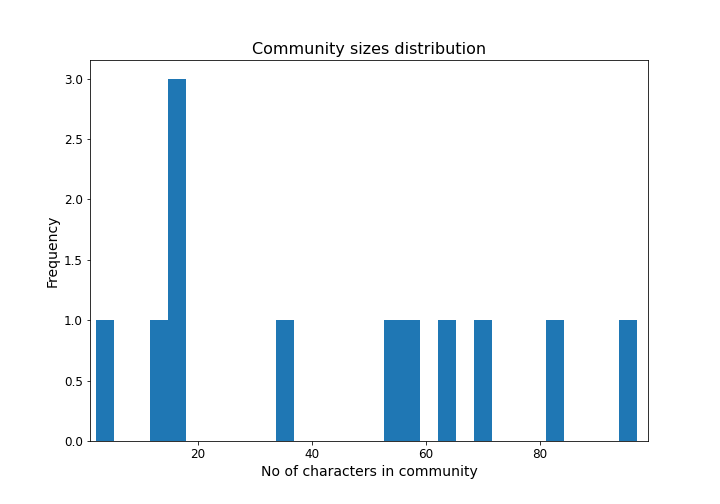
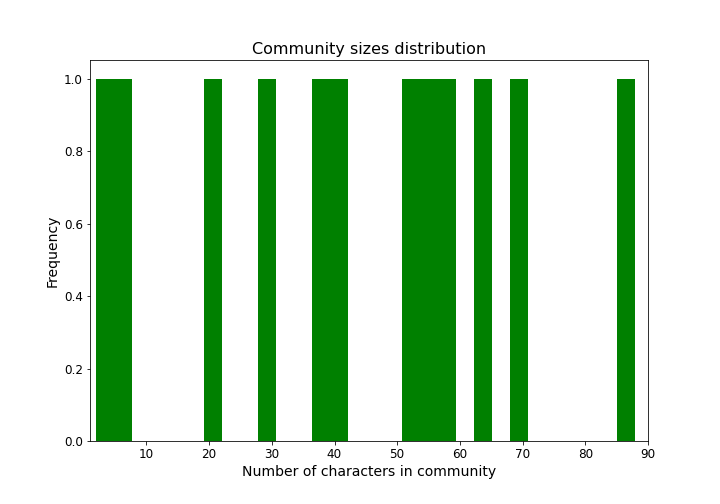
update posts

diff --git a/posts/intro/index.html b/posts/intro/index.html
@@ -7,7 +7,10 @@
     <title>Introduction | Greek Mythology</title>
     <meta name="viewport" content="width=device-width,minimum-scale=1">
     <meta name="description" content="This website is a part of project assignment B in the course 02805 - Social Graphs and interactions at DTU. Here we will present our idea and analyses to the world! We will with this website tell the story about our dataset and what we&rsquo;ve learned.
-Here is our video submission for part A of this assignment.">
+Here is our video submission for part A of this assignment.
+
+To download our dataset press here.
+To download our explainer notebook press here.">
     <meta name="generator" content="Hugo 0.89.4" />
     
     
@@ -29,7 +32,10 @@ Here is our video submission for part A of this assignment.">
     
     <meta property="og:title" content="Introduction" />
 <meta property="og:description" content="This website is a part of project assignment B in the course 02805 - Social Graphs and interactions at DTU. Here we will present our idea and analyses to the world! We will with this website tell the story about our dataset and what we&rsquo;ve learned.
-Here is our video submission for part A of this assignment." />
+Here is our video submission for part A of this assignment.
+
+To download our dataset press here.
+To download our explainer notebook press here." />
 <meta property="og:type" content="article" />
 <meta property="og:url" content="https://iriss04.github.io/posts/intro/" /><meta property="article:section" content="posts" />
 <meta property="article:published_time" content="2021-12-05T00:14:32+01:00" />
@@ -37,13 +43,19 @@ Here is our video submission for part A of this assignment." />
 
 <meta itemprop="name" content="Introduction">
 <meta itemprop="description" content="This website is a part of project assignment B in the course 02805 - Social Graphs and interactions at DTU. Here we will present our idea and analyses to the world! We will with this website tell the story about our dataset and what we&rsquo;ve learned.
-Here is our video submission for part A of this assignment."><meta itemprop="datePublished" content="2021-12-05T00:14:32+01:00" />
+Here is our video submission for part A of this assignment.
+
+To download our dataset press here.
+To download our explainer notebook press here."><meta itemprop="datePublished" content="2021-12-05T00:14:32+01:00" />
 <meta itemprop="dateModified" content="2021-12-05T00:14:32+01:00" />
-<meta itemprop="wordCount" content="57">
+<meta itemprop="wordCount" content="70">
 <meta itemprop="keywords" content="" /><meta name="twitter:card" content="summary"/>
 <meta name="twitter:title" content="Introduction"/>
 <meta name="twitter:description" content="This website is a part of project assignment B in the course 02805 - Social Graphs and interactions at DTU. Here we will present our idea and analyses to the world! We will with this website tell the story about our dataset and what we&rsquo;ve learned.
-Here is our video submission for part A of this assignment."/>
+Here is our video submission for part A of this assignment.
+
+To download our dataset press here.
+To download our explainer notebook press here."/>
 
 	
   </head>
@@ -147,6 +159,8 @@ Here is our video submission for part A of this assignment."/>
 We will with this website tell the story about our dataset and what we&rsquo;ve learned.</p>
 <p>Here is our video submission for part A of this assignment.</p>
 <p><a href="https://www.youtube.com/watch?v=7TwIk3wOlrA" title="Project Assignment A"><img src="https://img.youtube.com/vi/7TwIk3wOlrA/0.jpg" alt="Project Assignment A"></a></p>
+<p>To download our dataset press <a href="https://github.com/iriss04/Final-Project-02805/blob/main/characters.zip">here</a>.</p>
+<p>To download our explainer notebook press <a href="https://github.com/iriss04/Final-Project-02805/blob/main/Explainer%20Notebook%20-%20Greek%20Mythology.ipynb">here</a>.</p>
 <ul class="pa0">
   
 </ul>

diff --git a/posts/analysis/index.html b/posts/analysis/index.html
@@ -39,7 +39,7 @@ Word clouds Word Clouds are a very fun way to get to know your dataset better." 
 <meta itemprop="description" content="For this part of the project we go in deeper analysis of the dataset. Here we will not go deep into how the analysis was performed, that information is available in our explainer notebook, which can be downloaded here. Here you will see the word clouds we created. Finding communities and calculate their TF-IDF. Then finally sentiment of the created communities.
 Word clouds Word Clouds are a very fun way to get to know your dataset better."><meta itemprop="datePublished" content="2021-11-29T22:46:41+01:00" />
 <meta itemprop="dateModified" content="2021-11-29T22:46:41+01:00" />
-<meta itemprop="wordCount" content="1356">
+<meta itemprop="wordCount" content="1346">
 <meta itemprop="keywords" content="" /><meta name="twitter:card" content="summary"/>
 <meta name="twitter:title" content="Analysis"/>
 <meta name="twitter:description" content="For this part of the project we go in deeper analysis of the dataset. Here we will not go deep into how the analysis was performed, that information is available in our explainer notebook, which can be downloaded here. Here you will see the word clouds we created. Finding communities and calculate their TF-IDF. Then finally sentiment of the created communities.
@@ -174,7 +174,7 @@ Word clouds Word Clouds are a very fun way to get to know your dataset better."/
 <p>For our network we identified communities with the Louvain algorithm. With this algorithm we detected 12 communities in our network, ranging from 0 to 11. The smallest community has 2 characters and the largest has 79 characters.</p>
 <p>Here you can see a histogram of the community size distribution.</p>
 <p><img src="/images/community_dist.png" alt="alt text for screen readers" title="Distribution of communities"></p>
-<p>From the distribution we can see how most of the communities have a distinct number of characters. The most frequent size of a community has 60 characters. The largest community has 79 characters and the second largest has 70 characters. It&rsquo;s interesting to see how different categories distribute down to the largest communities. Here below is a list of the number of different characters in the five largest communities.</p>
+<p>From the distribution we can see how all of the communities have a distinct number of characters. The largest community has 87 characters and the second largest has 70 characters. It&rsquo;s interesting to see how different categories distribute down to the largest communities. Here below is a list of the number of different characters in the five largest communities.</p>
 <p>Largest community:</p>
 <ul>
 <li>Creature    35</li>

diff --git a/posts/network/index.html b/posts/network/index.html
@@ -39,7 +39,7 @@ The network After getting all the characters, their texts and their links the Gi
 <meta itemprop="description" content="In this post you will see the network of Greek mythology we created. How the information from the Fandom wiki was extracted is detailed in the dataset post.
 The network After getting all the characters, their texts and their links the Giant Connected Component (GCC) was plotted. The characters, nodes, is given different colours to make it more visually pretty and there is added edges in between to see which characters has links to which."><meta itemprop="datePublished" content="2021-11-29T23:45:51+01:00" />
 <meta itemprop="dateModified" content="2021-11-29T23:45:51+01:00" />
-<meta itemprop="wordCount" content="488">
+<meta itemprop="wordCount" content="372">
 <meta itemprop="keywords" content="" /><meta name="twitter:card" content="summary"/>
 <meta name="twitter:title" content="The Network and basic stats"/>
 <meta name="twitter:description" content="In this post you will see the network of Greek mythology we created. How the information from the Fandom wiki was extracted is detailed in the dataset post.
@@ -179,8 +179,6 @@ The out-degree tells us the frequency that a character mention other characters.
 <h3 id="powerlaw">Powerlaw</h3>
 <p><img src="/images/powerlaw.jpg" alt="alt text for screen readers" title="powerlaw"></p>
 <p>The powerlaw exponent $\gamma$ (alpha in our output), is $\gamma \approx 2.6$ for the in-degree network and $\gamma \approx 3.6$ for the out-degree. According to Barbasi (Barabasi, 4.7), this would put the in-degree network in the scale free regime, and the out-degree in the random network regime.</p>
-<p>This was expected, as multiple hubs were noticed in the in-degree network, opposed to none in the out-degree network, as is common in these networks:
-In a random network most nodes have comparable degrees and hence hubs are forbidden. Hubs are not only tolerated, but are expected in scale-free networks. Furthermore, the more nodes a scalefree network has, the larger are its hubs. Indeed, the size of the hubs grows polynomially with network size, hence they can grow quite large in scalefree networks. In contrast in a random network the size of the largest node grows logarithmically or slower with N, implying that hubs will be tiny even in a very large random network. (Barbasi, 4.3)</p>
 <ul class="pa0">
   
 </ul>

diff --git a/index.html b/index.html
@@ -145,6 +145,9 @@
         <div class="f6 f5-l lh-copy nested-copy-line-height nested-links">
           This website is a part of project assignment B in the course 02805 - Social Graphs and interactions at DTU. Here we will present our idea and analyses to the world! We will with this website tell the story about our dataset and what we&rsquo;ve learned.
 Here is our video submission for part A of this assignment.
+
+To download our dataset press here.
+To download our explainer notebook press here.
         </div>
           <a href="/posts/intro/" class="ba b--moon-gray bg-light-gray br2 color-inherit dib f7 hover-bg-moon-gray link mt2 ph2 pv1">read more</a>
         

diff --git a/posts/index.html b/posts/index.html
@@ -118,6 +118,9 @@
     <div class="nested-links f5 lh-copy nested-copy-line-height">
       This website is a part of project assignment B in the course 02805 - Social Graphs and interactions at DTU. Here we will present our idea and analyses to the world! We will with this website tell the story about our dataset and what we&rsquo;ve learned.
 Here is our video submission for part A of this assignment.
+
+To download our dataset press here.
+To download our explainer notebook press here.
     </div>
   </div>
 </div>
